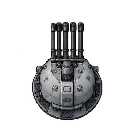
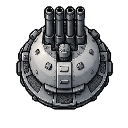
Mount fuel tanks on matching hulls and center redesigned gun turrets

diff --git a/HullPlacement.js b/HullPlacement.js
@@ -1,3 +1,4 @@
+import { fuelSupported } from './FuelSupport.js';
 import { gunSupported } from './GunSupport.js';
 import { Assets, Container, Rectangle, Sprite, Texture, Graphics } from 'pixi.js';
 import { GRID_SIZE } from './HullParts.js';
@@ -99,6 +100,7 @@ export async function createHullPlacement(app, hull) {
     valid = !placed.some(item => !canOverlap(selected.category, findPart(item.partId).category) && overlaps(shape, polygon(findPart(item.partId), item.x, item.y, item.angle)));
     if (selected.category === 'ENGINE') valid = valid && fullySupported({ partId: selected.id, x: preview.x, y: preview.y, angle }, placed);
     if (selected.category === 'GUN') valid = valid && gunSupported({ x: preview.x, y: preview.y }, placed);
+    if (selected.category === 'FUEL') valid = valid && fuelSupported({ partId: selected.id, x: preview.x, y: preview.y, angle }, placed);
     preview.tint = valid ? 0xffffff : 0xff4444;
   }
   function select(part) {
@@ -148,7 +150,7 @@ export async function createHullPlacement(app, hull) {
       update();
       return;
     }
-    if (!valid) { onAlert(selected.category === 'GUN' ? 'GUNは2x2 HULLに完全一致させてください（他装備との重なりも不可）' : selected.category === 'ENGINE' ? 'ENGINEは指定寸法のHULLに位置・向きを完全一致させてください（他パーツとの重なりも不可）' : '他のブロックと重なるため配置できません'); return; }
+    if (!valid) { onAlert(selected.category === 'FUEL' ? 'FUELは同じ寸法のHULLに位置・向きを完全一致させてください' : selected.category === 'GUN' ? 'GUNは2x2 HULLに完全一致させてください（他装備との重なりも不可）' : selected.category === 'ENGINE' ? 'ENGINEは指定寸法のHULLに位置・向きを完全一致させてください（他パーツとの重なりも不可）' : '他のブロックと重なるため配置できません'); return; }
     const sprite = new Sprite({ texture: textures.get(selected.id) });
     sprite.anchor.set(0.5);
     sprite.width = selected.width * GRID_SIZE;
@@ -175,6 +177,7 @@ export async function createHullPlacement(app, hull) {
     preview, placed, backgroundLayer, armorLayer, engineLayer, fixedEngineLayer, gunLayer, exhaustOverlay, select,
     onAlert(callback) { onAlert = callback; },
     validateSave() {
+      if (placed.some(block => findPart(block.partId).category === 'FUEL' && !fuelSupported(block, placed))) throw new Error('同じ寸法のHULLに取り付けられていないFUELがあります。保存できません');
       if (placed.some(block => findPart(block.partId).category === 'GUN' && !gunSupported(block, placed))) throw new Error('2x2 HULLに取り付けられていないGUNがあります。保存できません');
       if (placed.some(block => findPart(block.partId).category === 'ENGINE' && !fullySupported(block, placed))) throw new Error('HULLに完全に取り付けられていないENGINEがあります。保存できません');
       const blocked = blockedRockets(placed);
@@ -226,6 +229,7 @@ export async function createHullPlacement(app, hull) {
       }
       if (blocks.some(block => findPart(block.partId).category === 'ENGINE' && !fullySupported(block, blocks))) throw new Error('保存データのENGINEがHULLに完全に取り付けられていません');
       if (blocks.some(block => findPart(block.partId).category === 'GUN' && !gunSupported(block, blocks))) throw new Error('保存データのGUNが2x2 HULLに完全一致していません');
+      if (blocks.some(block => findPart(block.partId).category === 'FUEL' && !fuelSupported(block, blocks) && blocks.some(h => findPart(h.partId).category === 'HULL' && overlaps(polygon(findPart(block.partId), block.x, block.y, block.angle), polygon(findPart(h.partId), h.x, h.y, h.angle))))) throw new Error('保存データのFUELがHULLに部分的に重なっています');
       for (const item of placed) item.sprite.destroy({ children: true });
       placed.length = 0;
       for (const block of blocks) {

diff --git a/FuelSupport.js b/FuelSupport.js
@@ -1,0 +1,17 @@
+import { findPart } from './ArmorParts.js';
+import { GRID_SIZE } from './HullParts.js';
+
+/** 同じ寸法の単一HULLに中心と回転後の範囲を完全一致させる。 */
+export function fuelSupported(tank, blocks) {
+  const part = findPart(tank.partId);
+  const sideways = tank.angle % 180 === 90;
+  const width = sideways ? part.height : part.width;
+  const height = sideways ? part.width : part.height;
+  return blocks.some(block => {
+    if (block.partId !== (part.width === 1 ? '1x2' : '2x2')) return false;
+    const hull = findPart(block.partId), rotated = block.angle % 180 === 90;
+    return Math.abs(block.x - tank.x) < 0.0001 && Math.abs(block.y - tank.y) < 0.0001
+      && width * GRID_SIZE === (rotated ? hull.height : hull.width) * GRID_SIZE
+      && height * GRID_SIZE === (rotated ? hull.width : hull.height) * GRID_SIZE;
+  });
+}

diff --git a/PlacementRules.js b/PlacementRules.js
@@ -1,7 +1,7 @@
 // 許可されたカテゴリの組み合わせのみ重ね配置できる。
 // HULL/HULL、ARMOR/ARMOR、HULL/ARMOR は現時点では許可しない。
 // 今後合意した組み合わせを ['HULL', 'ENGINE'] のように追加する。
-export const overlapAllowedPairs = [['ENGINE', 'HULL'], ['GUN', 'HULL']];
+export const overlapAllowedPairs = [['ENGINE', 'HULL'], ['GUN', 'HULL'], ['FUEL', 'HULL']];
 
 export function canOverlap(categoryA, categoryB) {
   return overlapAllowedPairs.some(([a, b]) =>

diff --git a/doc/design.md b/doc/design.md
@@ -264,14 +264,14 @@
 
 - `PlacementRules.js` の許可リストでカテゴリの組み合わせを管理する。順序は問わず、同一カテゴリの組み合わせも指定可能。
 - 配置と保存機体の検証で同じルールを参照する。
-- ENGINE/HULLとGUN/HULLの重なりを許可する。HULL/HULL、ARMOR/ARMOR、HULL/ARMOR、ENGINE/ENGINE、ENGINE/ARMOR、ENGINE/BRIDGEは全て禁止。
+- ENGINE/HULL、GUN/HULL、FUEL/HULLの重なりを許可する。HULL/HULL、ARMOR/ARMOR、HULL/ARMOR、ENGINE/ENGINE、ENGINE/ARMOR、ENGINE/BRIDGEは全て禁止。
 - 他カテゴリの許可組み合わせは未決定で、今後の会話で追加する。
 
 ### FUELとTHRUST
 
 - FUELタブに1x2（横1・縦2、64×128px）の灰青色の独立タンクと2x2（128×128px）の大きな四角い白色タンクを追加する。
 - 透過PNG、nearest表示、半透明プレビュー、グリッド配置、Rで90度回転、持ち直し、DEL、SAVE/LOADに対応する。
-- 暫定の配置ルールは独立ブロック。HULLを含む他パーツとの重なりは禁止する。HULLへの取付条件は未指定。保存時は既存のBRIDGE接続と噴射範囲の検証対象になる。
+- FUEL 1x2は単一HULL 1x2、FUEL 2x2は単一HULL 2x2に完全一致させる。1x2を2x2の半分へ配置する案は後続の寸法指定で変更。位置・回転後の範囲を一致させ、HULLより手前に表示する。FUEL同士や他装備の重なりは禁止。配置・SAVEで支持を検証する。旧独立配置は編集のためLOAD可能だが再取付までSAVE不可。部分的なHULL重なりはLOADでも拒否する。
 - 上部情報欄にMASS / FUEL / THRUSTを表示する。配置済みパーツだけを集計し、配置・持ち直し・DEL・LOAD・自動復元時に更新する。
 - ユーザー了承済みの仮値：小タンクFUEL=100、大タンクFUEL=200。仮MASSは2と4。燃料の単位、消費、燃料残量による重量変化は未決定・未実装。
 - 仮THRUSTはRD-90=90、RD-130=130、RD-22-4=400、S-12=120。方向にかかわらず全エンジンの値を加算する。推力単位と戦闘時制御は未決定。
@@ -288,3 +288,7 @@
 - 専用gun-layerをHULLより手前に置く。持ち直しとDELでは背面のHULLより砲を優先する。
 - 配置、LOAD、SAVEで支持を検証する。支持HULLを取り外した場合は再取付まで保存できない。HULLとの重なりはBRIDGE接続として扱い、固定式ENGINEの噴射妨害判定にもGUNを含める。
 - MASSは既存の面積基準で仮4。射撃、砲塔旋回、弾薬、射程、威力、実重量は未決定・未実装。FUEL/THRUSTには加算しない。
+
+### GUN画像の回転中心修正
+
+- 7種類を短い砲身のデフォルメ画像に描き直し、砲塔基部の中心を128×128px画像の中央（64,64）に合わせる。Spriteのanchor=(0.5,0.5)で砲塔中心を軸に回転する。配置範囲・ID・保存座標は維持する。

diff --git a/README.md b/README.md
@@ -64,6 +64,6 @@ npm run preview
 
 仕様と未決事項は [doc/design.md](doc/design.md) に保存します。
 
-FUELタブから灰青色の1x2タンク（燃料100）、白色の2x2タンク（燃料200）を配置できます。他パーツとの重なりは禁止です。上部のFUELは燃料総量、THRUSTは全エンジンの合計推力を表示します。値はバランス調整前の仮値です。
+FUELタブから灰青色の1x2タンク（燃料100）、白色の2x2タンク（燃料200）を配置できます。1x2はHULL 1x2、2x2はHULL 2x2に完全一致させて取り付けます。他装備との重なりは禁止です。上部のFUELは燃料総量、THRUSTは全エンジンの合計推力を表示します。値はバランス調整前の仮値です。
 
 GUNタブに7種類の2x2艦砲を追加しました。単一の2x2 HULLに完全一致させて配置します。Rで90度回転できます。砲と他装備の重なりは禁止です。
